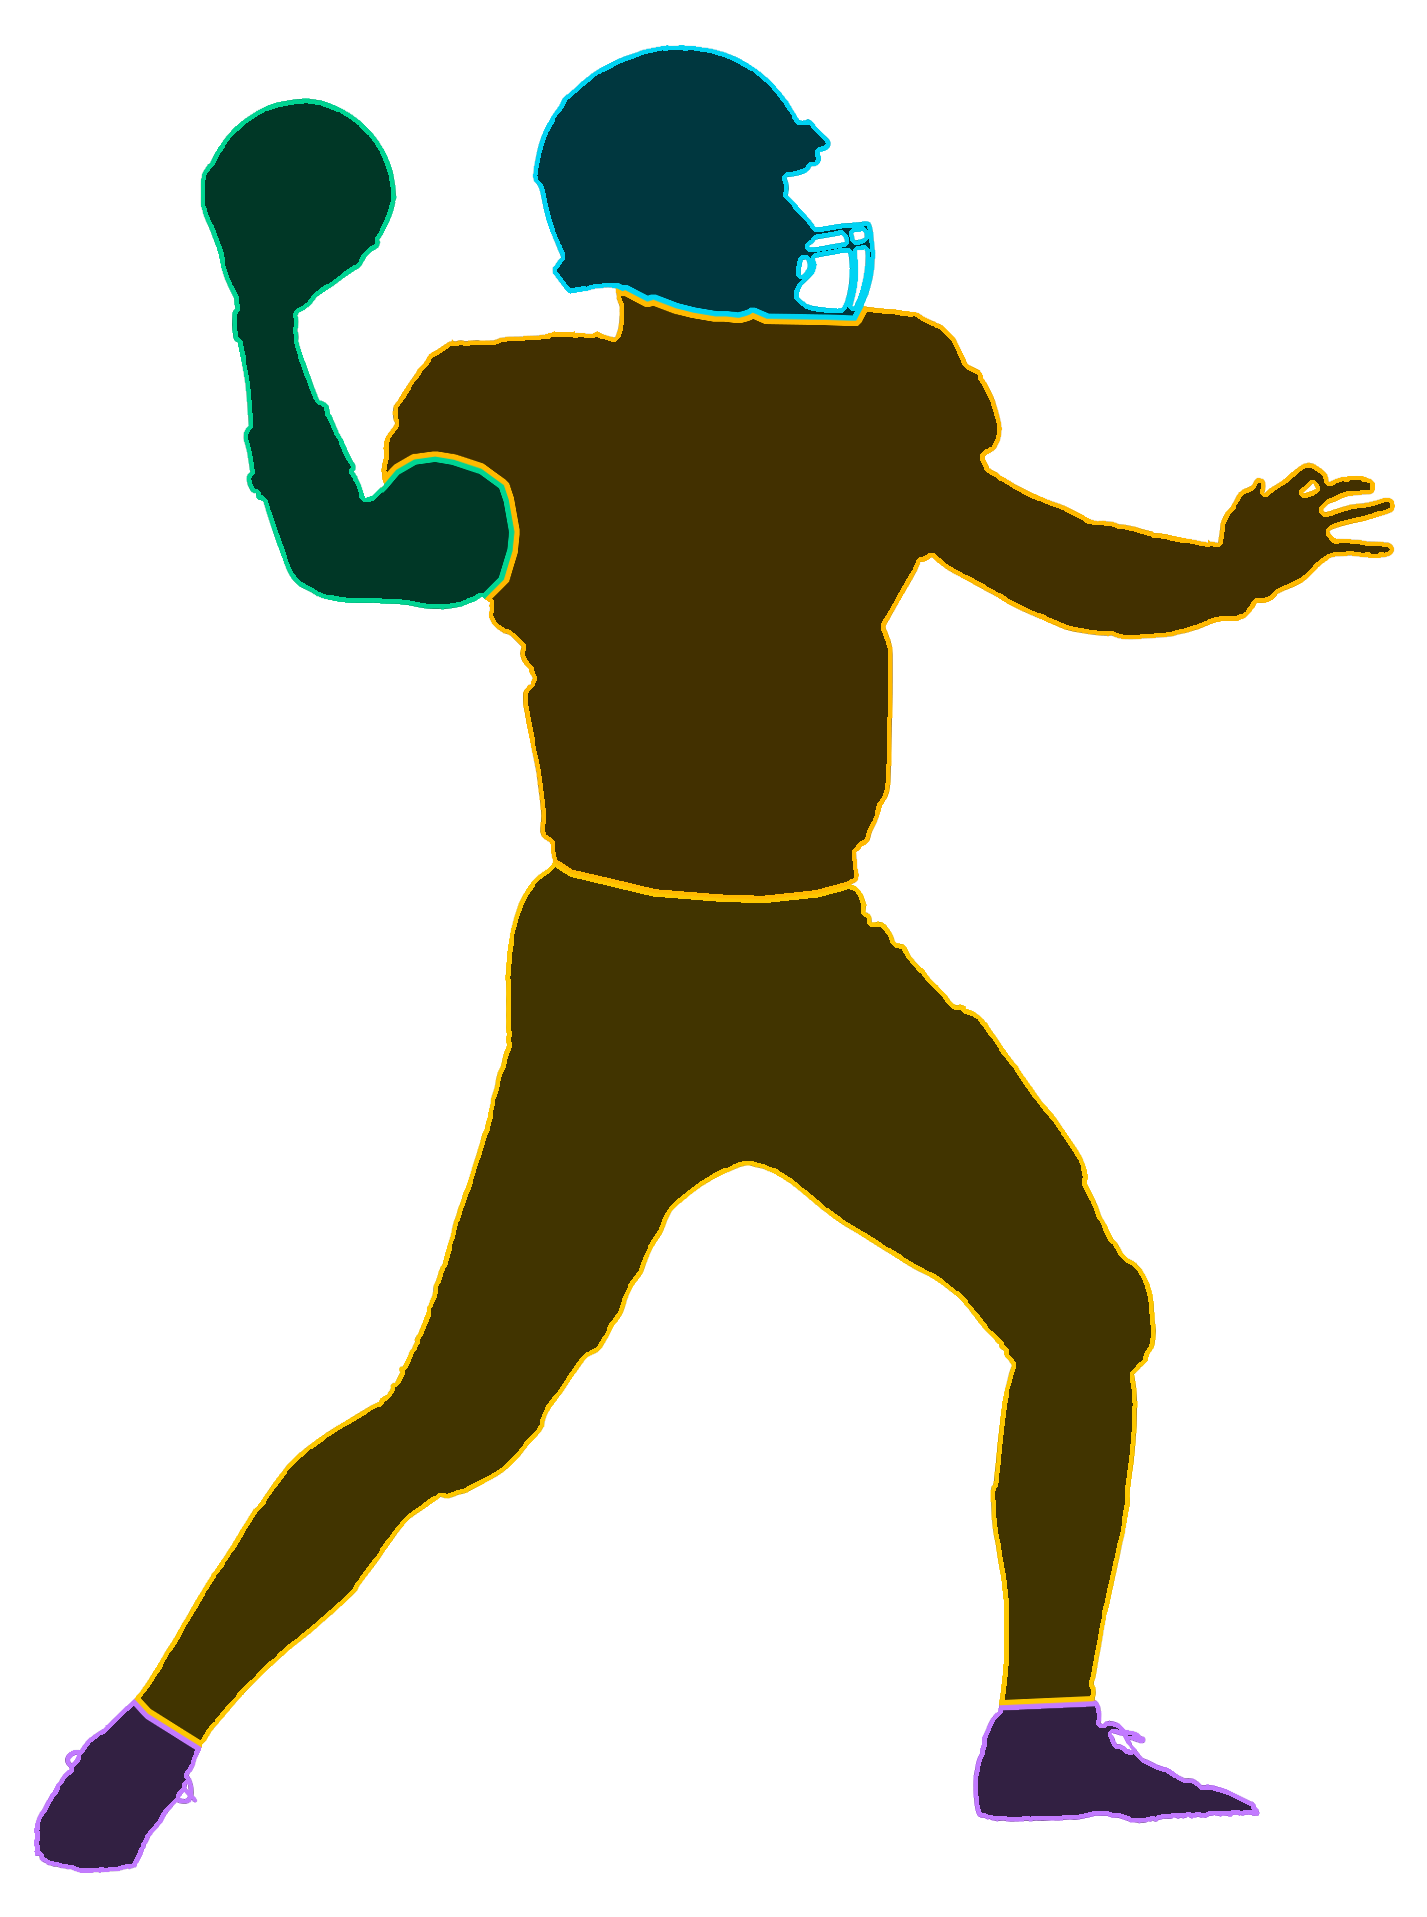
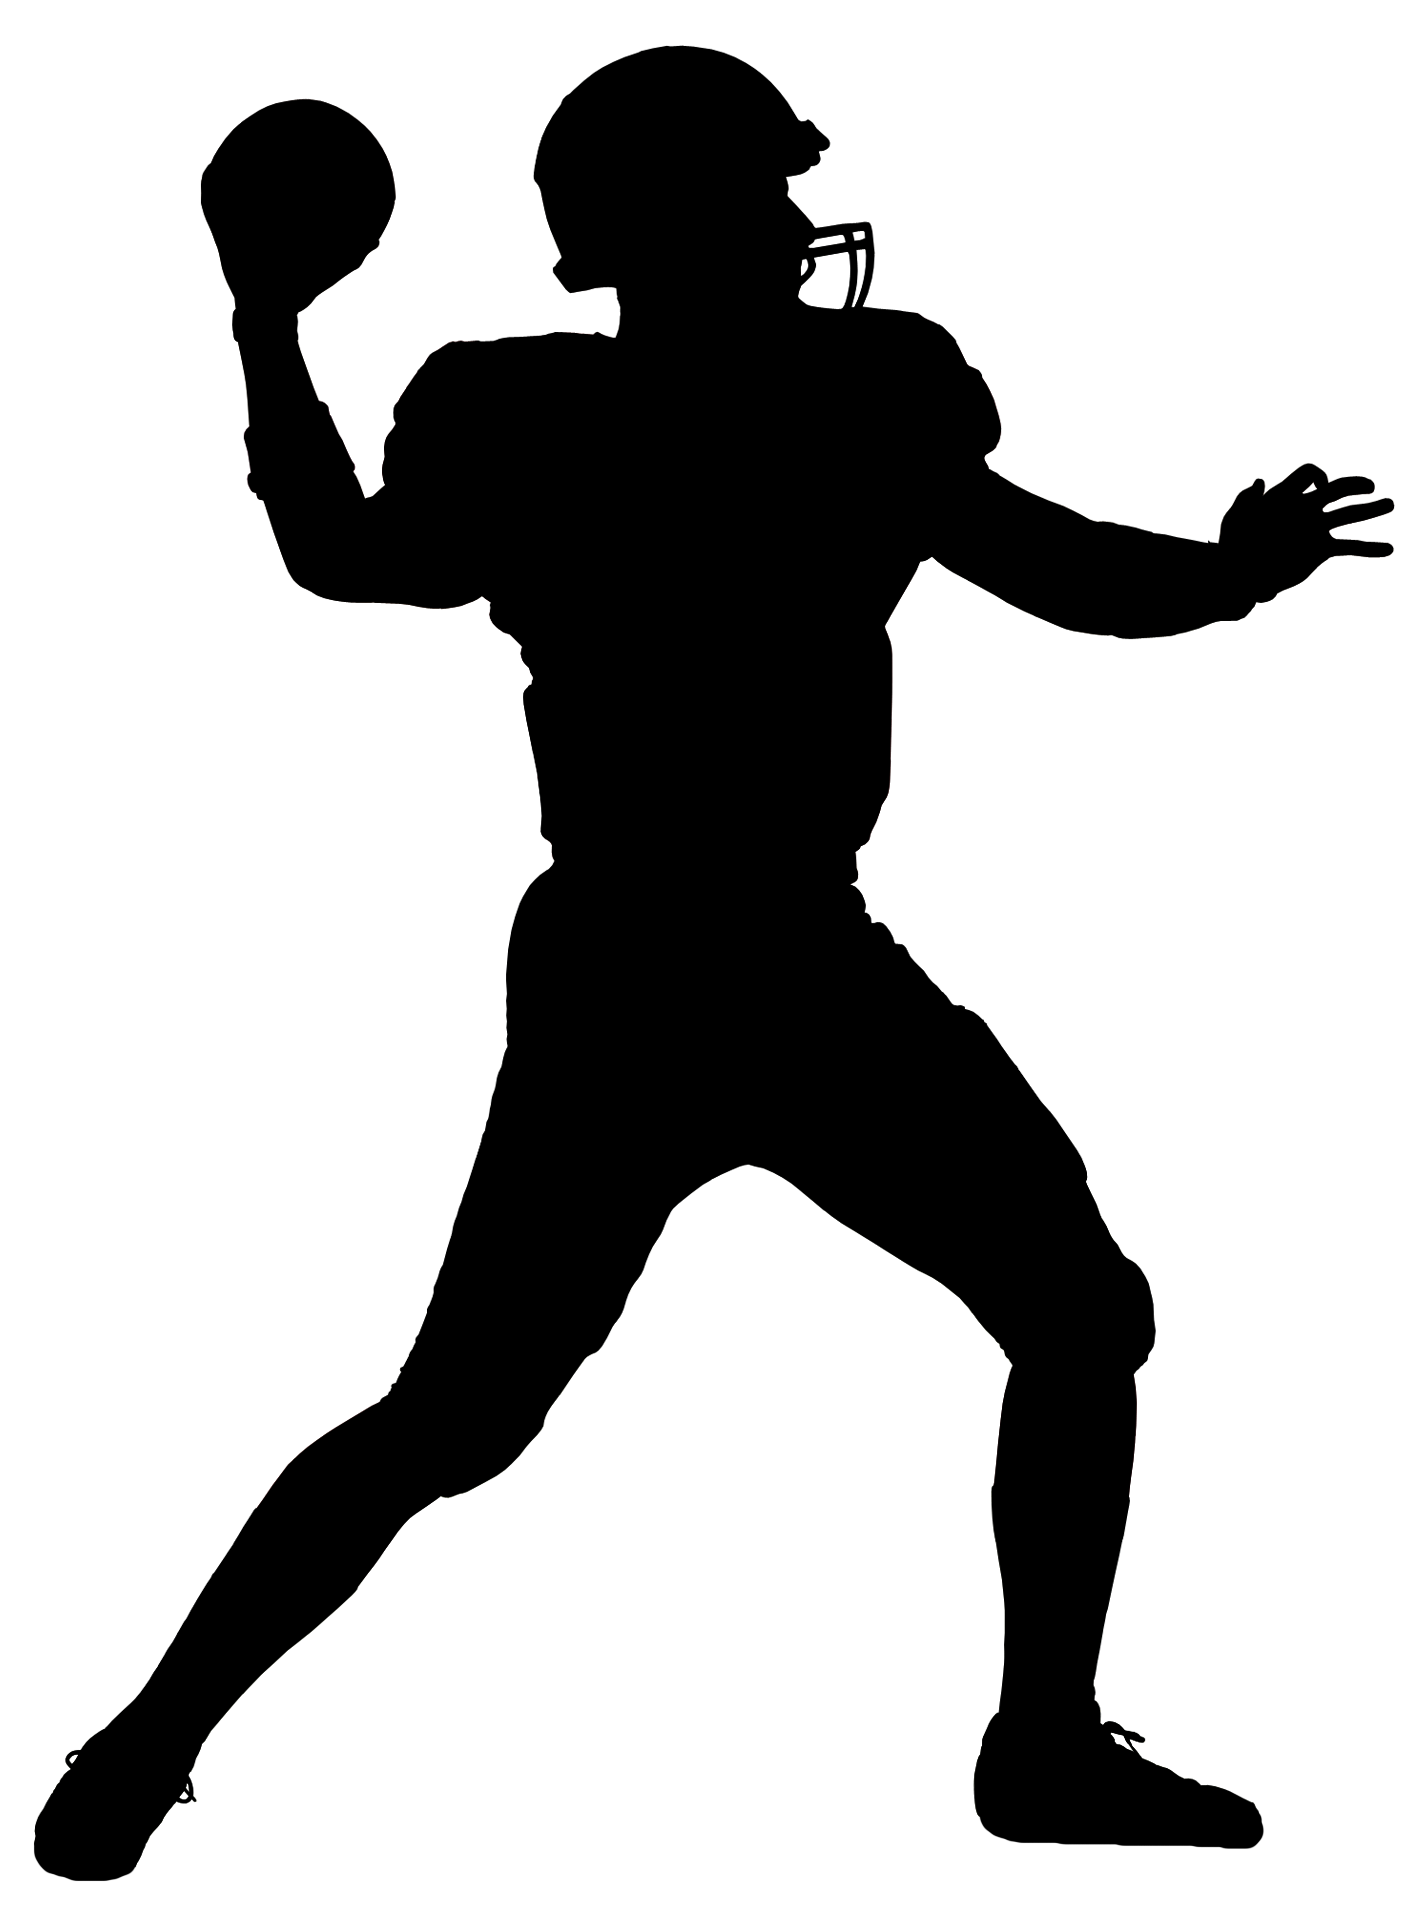
Add files via upload

Changed region(s): [[0.0, 0.0, 0.9867, 0.9849]]

diff --git a/index.html b/index.html
@@ -121,40 +121,40 @@
                         <img src="qb.png" alt="Custom QB Blueprint" class="w-full h-auto max-h-[300px] object-contain opacity-70 drop-shadow-[0_0_15px_rgba(16,185,129,0.2)]" onerror="this.style.display='none'; alert('Asset Error: Please place your qb.png image in the project root folder.');">
                     </div>
 
-                    <!-- RIGHT SIDE: Uniformly Balanced, Cleanly Stacked Biometric Attributes Column -->
+                    <!-- RIGHT SIDE: Cleanly Stacked Biometric Attributes Column (6 Completely Unique Colors) -->
                     <div class="w-[50%] h-full flex flex-col justify-between py-1 relative z-20">
                         
-                        <!-- Game IQ Block -->
+                        <!-- 1. Game IQ (Cyan) -->
                         <div class="bg-slate-950/80 border border-cyan-500/80 rounded-xl px-3 py-1.5 flex justify-between items-center shadow-md">
                             <span class="text-slate-400 uppercase font-bold tracking-wider text-[10px]">🧠 Game IQ</span>
                             <span id="view-gameIQ" class="text-cyan-400 font-black text-sm">--</span>
                         </div>
 
-                        <!-- Arm Strength Block -->
+                        <!-- 2. Arm Strength (Emerald Green) -->
                         <div class="bg-slate-950/80 border border-emerald-500/80 rounded-xl px-3 py-1.5 flex justify-between items-center shadow-md">
                             <span class="text-slate-400 uppercase font-bold tracking-wider text-[10px]">💪 Arm Str</span>
                             <span id="view-arm" class="text-emerald-400 font-black text-sm">--</span>
                         </div>
 
-                        <!-- Base Speed Block -->
+                        <!-- 3. Base Speed (Neon Yellow) -->
                         <div class="bg-slate-950/80 border border-yellow-500/80 rounded-xl px-3 py-1.5 flex justify-between items-center shadow-md">
                             <span class="text-slate-400 uppercase font-bold tracking-wider text-[10px]">⚡ Speed</span>
                             <span id="view-speed" class="text-yellow-400 font-black text-sm">--</span>
                         </div>
 
-                        <!-- Physical Size Block -->
-                        <div class="bg-slate-950/80 border border-amber-500/80 rounded-xl px-3 py-1.5 flex justify-between items-center shadow-md">
+                        <!-- 4. Physical Size (Steel Metallic Silver/White - COMPLETELY DISTINCT) -->
+                        <div class="bg-slate-950/80 border border-slate-400/80 rounded-xl px-3 py-1.5 flex justify-between items-center shadow-md">
                             <span class="text-slate-400 uppercase font-bold tracking-wider text-[10px]">⚖️ Size</span>
-                            <span id="view-size" class="text-amber-400 font-black text-sm">--</span>
+                            <span id="view-size" class="text-slate-200 font-black text-sm">--</span>
                         </div>
 
-                        <!-- Elusiveness Block -->
+                        <!-- 5. Elusiveness (Deep Purple) -->
                         <div class="bg-slate-950/80 border border-purple-500/80 rounded-xl px-3 py-1.5 flex justify-between items-center shadow-md">
                             <span class="text-slate-400 uppercase font-bold tracking-wider text-[10px]">🌀 Elusive</span>
                             <span id="view-elusiveness" class="text-purple-400 font-black text-sm">--</span>
                         </div>
 
-                        <!-- Toughness Block -->
+                        <!-- 6. Toughness (Vibrant Rose Red) -->
                         <div class="bg-slate-950/80 border border-rose-500/80 rounded-xl px-3 py-1.5 flex justify-between items-center shadow-md">
                             <span class="text-slate-400 uppercase font-bold tracking-wider text-[10px]">❤️ Toughness</span>
                             <span id="view-toughness" class="text-rose-400 font-black text-sm">--</span>

diff --git a/sw.js b/sw.js
@@ -1,4 +1,4 @@
-const CACHE_NAME = 'qb-builder-v3';
+const CACHE_NAME = 'qb-builder-v4';
 const ASSETS = [
   './',
   './index.html',